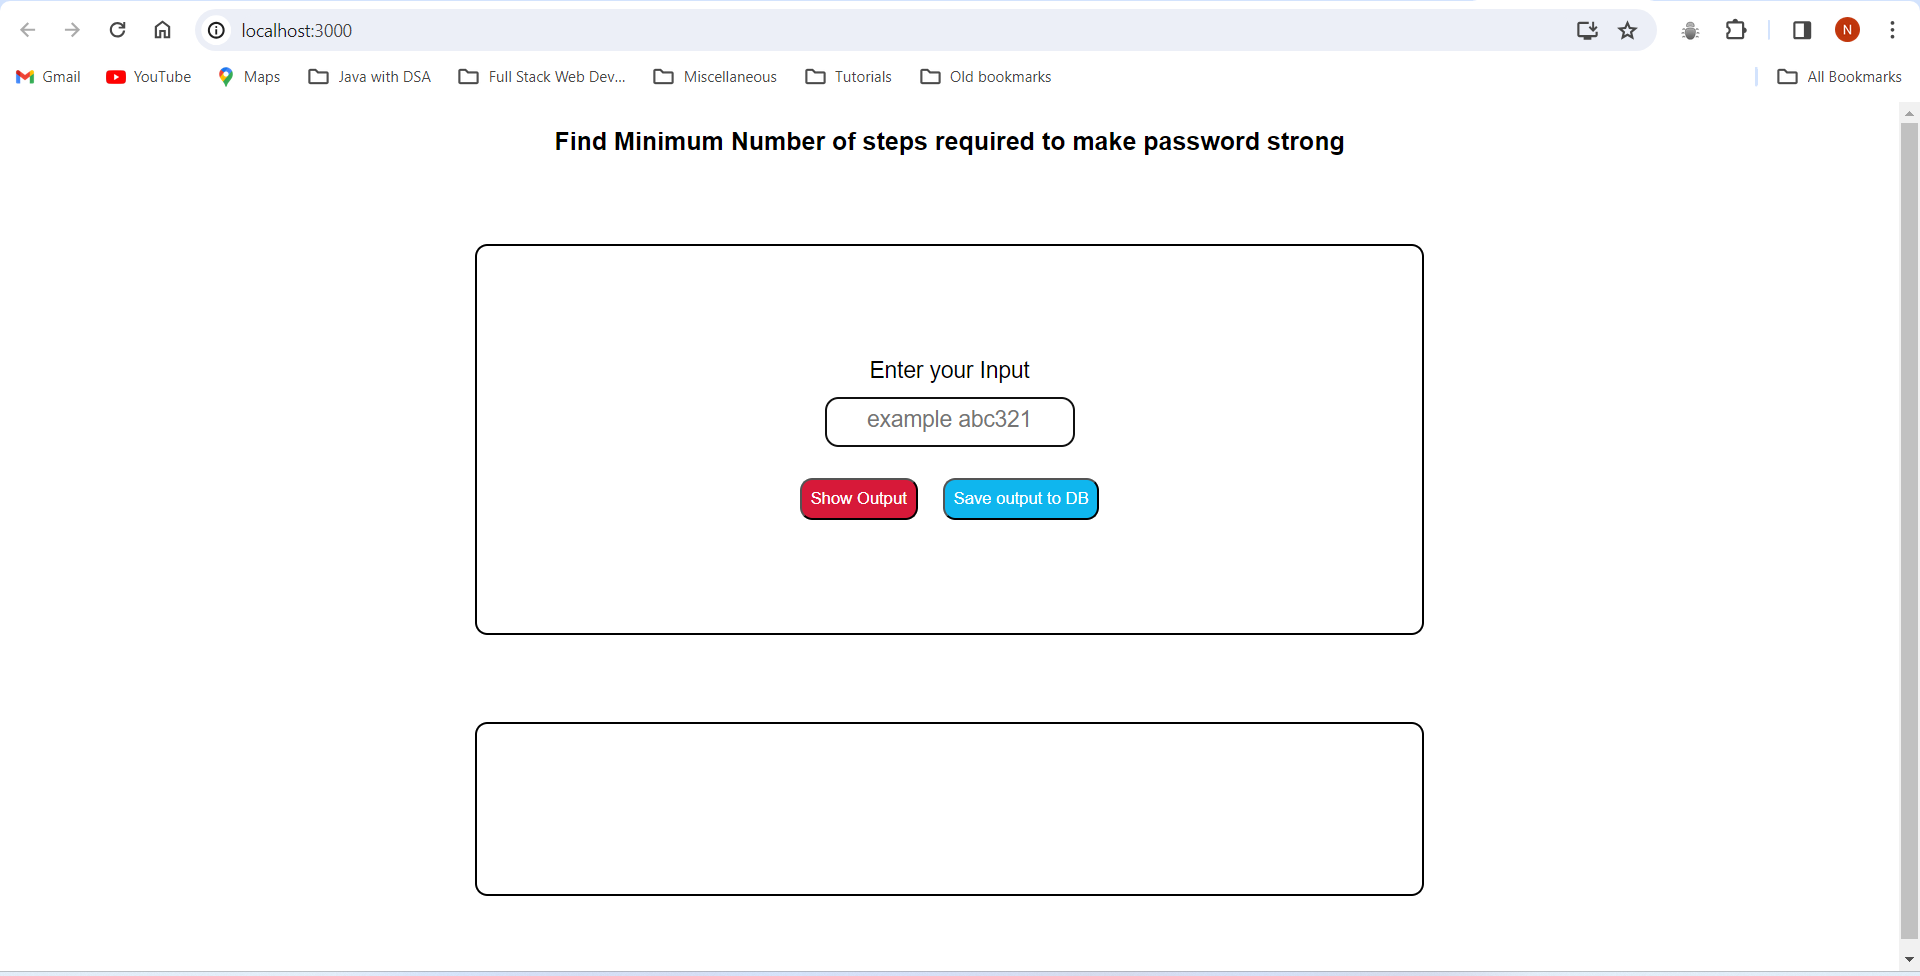
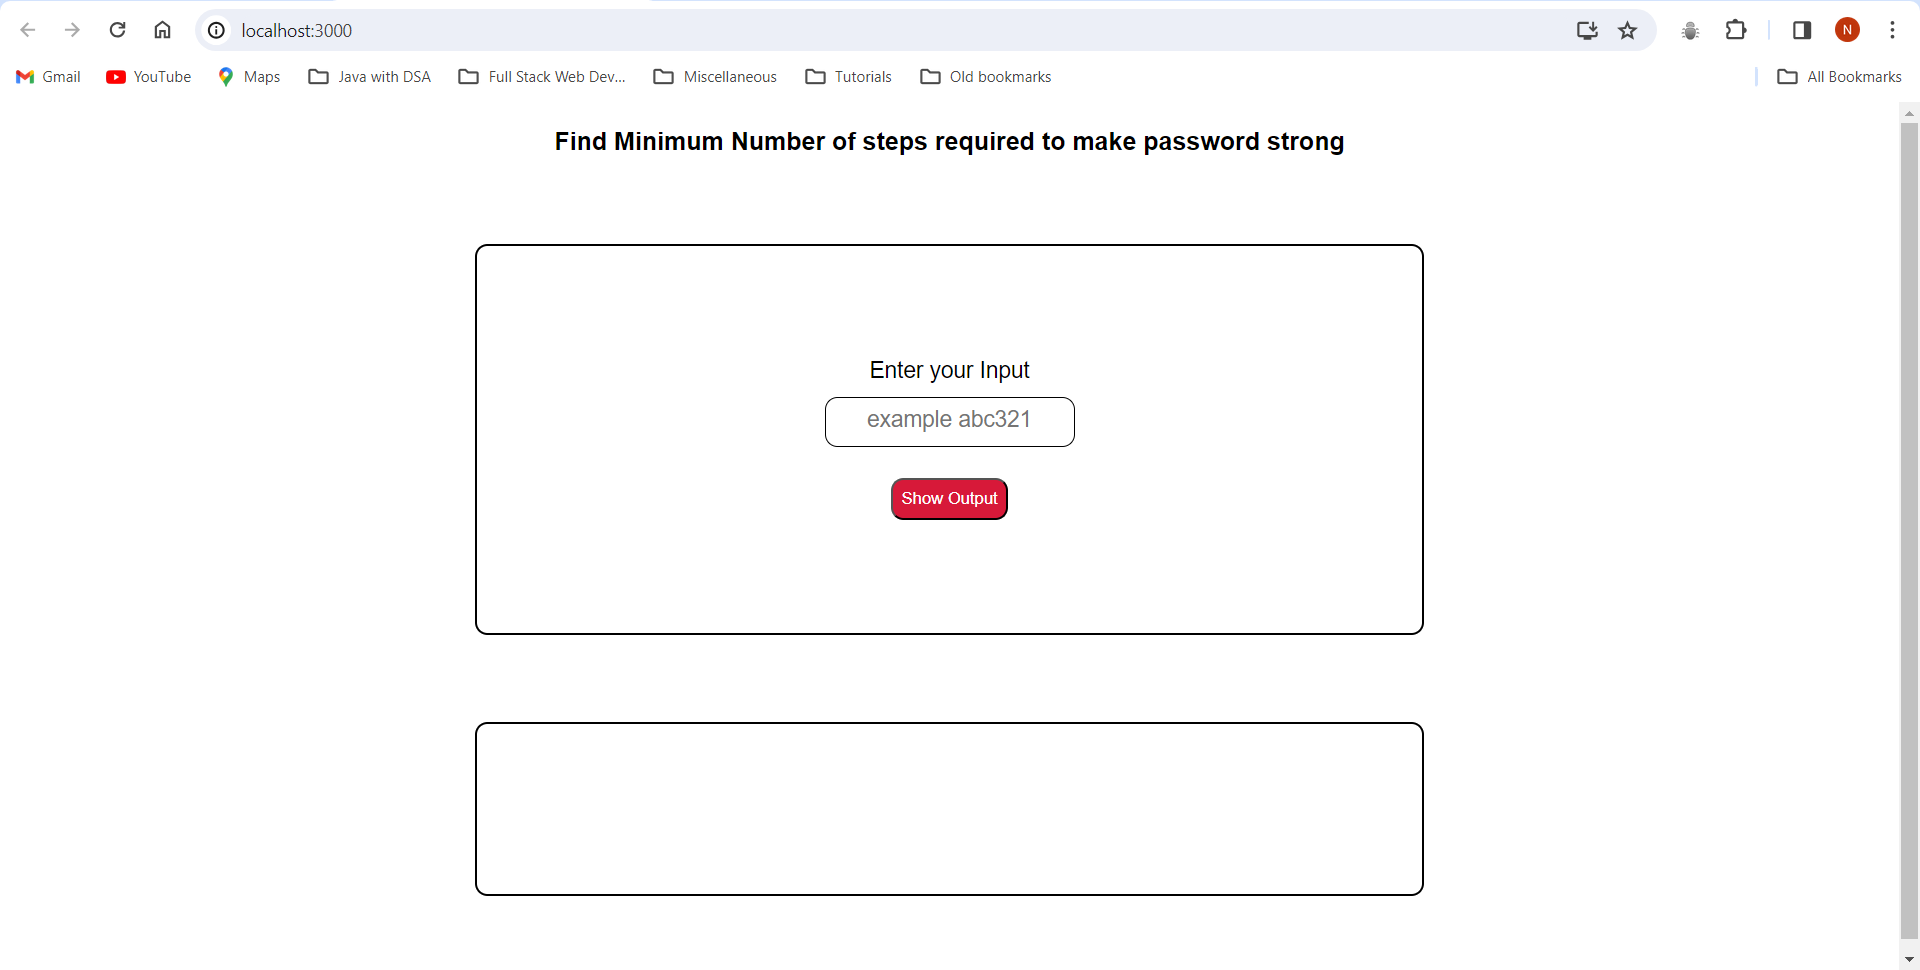
updated_1.1

diff --git a/Assignment-3/frontend/src/components/UserInputForm.js b/Assignment-3/frontend/src/components/UserInputForm.js
@@ -54,9 +54,9 @@ const UserInputForm = () => {
           <button onClick={handleOutput} className="outputShowBtn">
             Show Output
           </button>
-          <button onClick={saveToDB} className="saveTodbBtn">
+          {result !== null && (<button onClick={saveToDB} className="saveTodbBtn">
             Save output to DB
-          </button>
+          </button>)}
           </div>
         </div>
 
